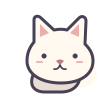
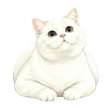
Add pointer wrapping and restore the watercolor white cat

diff --git a/Sources/MouseNav.swift b/Sources/MouseNav.swift
@@ -283,7 +283,7 @@ private enum Shortcuts {
 @MainActor
 private final class Navigator: NSObject, NSApplicationDelegate {
     private let workspace = NSWorkspace.shared
-    private let catArtwork = Bundle.main.url(forResource: "WhiteCat", withExtension: "svg")
+    private let catArtwork = Bundle.main.url(forResource: "WhiteCat", withExtension: "png")
         .flatMap { NSImage(contentsOf: $0) } ?? NSImage(systemSymbolName: "pawprint.fill", accessibilityDescription: nil)
     private var rails: [CGDirectDisplayID: Rail] = [:]
     private var desktopLabels: [CGDirectDisplayID: NSTextField] = [:]
@@ -296,6 +296,9 @@ private final class Navigator: NSObject, NSApplicationDelegate {
     private var displayFrames: [(id: CGDirectDisplayID, frame: NSRect)] = []
     private var shownDisplay: CGDirectDisplayID?
     private var pointerTimer: Timer?
+    private var pointerWrap: PointerWrap?
+    private var globalPointerMonitor: Any?
+    private var localPointerMonitor: Any?
     private var railRecoveryTask: Task<Void, Never>?
     private var recent: [pid_t] = []
     private var observers: [NSObjectProtocol] = []
@@ -328,6 +331,7 @@ private final class Navigator: NSObject, NSApplicationDelegate {
         installMenuBarItem()
         refreshScreens()
         startFollowingPointer()
+        if UserDefaults.standard.bool(forKey: "pointerWrapEnabled") { startPointerWrap() }
         log.notice("launch displays=\(self.rails.count) postEvents=\(Shortcuts.permitted) axTrusted=\(AXIsProcessTrusted()) spacesRead=\(self.spaces.displays() != nil)")
     }
 
@@ -335,6 +339,7 @@ private final class Navigator: NSObject, NSApplicationDelegate {
 
     func applicationWillTerminate(_ notification: Notification) {
         pointerTimer?.invalidate()
+        stopPointerWrap()
         railRecoveryTask?.cancel()
         cancelCycle()
     }
@@ -366,6 +371,7 @@ private final class Navigator: NSObject, NSApplicationDelegate {
         displayFrames = screens.compactMap { screen in
             screen.displayID.map { ($0, screen.frame) }
         }
+        pointerWrap = PointerWrap(frames: displayFrames.map { CGDisplayBounds($0.id) })
         let online = Set(displayFrames.map(\.id))
         for id in Set(rails.keys).subtracting(online) {
             rails.removeValue(forKey: id)?.panel.close()
@@ -389,6 +395,44 @@ private final class Navigator: NSObject, NSApplicationDelegate {
         timer.tolerance = 0.02
         RunLoop.main.add(timer, forMode: .common)
         pointerTimer = timer
+    }
+
+    private func startPointerWrap() {
+        globalPointerMonitor = NSEvent.addGlobalMonitorForEvents(matching: .mouseMoved) { [weak self] event in
+            MainActor.assumeIsolated { self?.wrapPointer(for: event) }
+        }
+        guard globalPointerMonitor != nil else {
+            log.error("pointer wrap could not start monitoring mouse movement")
+            return
+        }
+        localPointerMonitor = NSEvent.addLocalMonitorForEvents(matching: .mouseMoved) { [weak self] event in
+            self?.wrapPointer(for: event)
+            return event
+        }
+        log.notice("pointer wrap enabled")
+    }
+
+    private func stopPointerWrap() {
+        if let globalPointerMonitor { NSEvent.removeMonitor(globalPointerMonitor) }
+        if let localPointerMonitor { NSEvent.removeMonitor(localPointerMonitor) }
+        globalPointerMonitor = nil
+        localPointerMonitor = nil
+        pointerWrap?.reset()
+    }
+
+    private func wrapPointer(for event: NSEvent) {
+        guard NSEvent.pressedMouseButtons == 0 else {
+            pointerWrap?.reset()
+            return
+        }
+        guard let point = event.cgEvent?.location,
+              let destination = pointerWrap?.destination(
+                at: point, dx: event.deltaX, dy: event.deltaY, time: event.timestamp
+              ),
+              let cursor = CGEvent(source: nil)?.location, abs(cursor.x - point.x) <= 1,
+              CGWarpMouseCursorPosition(destination) == .success else { return }
+        updateRailVisibility()
+        log.info("pointer wrapped left=\(destination.x < point.x)")
     }
 
     private func updateRailVisibility(force: Bool = false) {
@@ -888,6 +932,9 @@ private final class Navigator: NSObject, NSApplicationDelegate {
         let cycleItem = item("跨屏循环", #selector(toggleCycle))
         cycleItem.state = cycleEnabled ? .on : .off
         menu.addItem(cycleItem)
+        let wrapItem = item("鼠标跨屏绕回", #selector(togglePointerWrap))
+        wrapItem.state = globalPointerMonitor == nil ? .off : .on
+        menu.addItem(wrapItem)
         menu.addItem(.separator())
         menu.addItem(item("辅助功能设置…", #selector(requestPermission)))
         menu.addItem(item("桌面快捷键设置…", #selector(openKeyboardSettings)))
@@ -902,6 +949,15 @@ private final class Navigator: NSObject, NSApplicationDelegate {
         cancelCycle()
         updateCycleCaption()
         statusItem?.menu?.items.first(where: { $0.action == #selector(toggleCycle) })?.state = cycleEnabled ? .on : .off
+    }
+
+    @objc private func togglePointerWrap() {
+        if globalPointerMonitor == nil {
+            startPointerWrap()
+        } else {
+            stopPointerWrap()
+        }
+        UserDefaults.standard.set(globalPointerMonitor != nil, forKey: "pointerWrapEnabled")
     }
 
     @objc private func toggleVisibility() {
@@ -934,6 +990,8 @@ private final class Navigator: NSObject, NSApplicationDelegate {
 extension Navigator: NSMenuDelegate {
     func menuNeedsUpdate(_ menu: NSMenu) {
         menu.items.first?.title = visible ? "隐藏导航栏" : "显示导航栏"
+        menu.items.first(where: { $0.action == #selector(togglePointerWrap) })?.state =
+            globalPointerMonitor == nil ? .off : .on
     }
 }
 

diff --git a/Tests/SpaceCycleCheck.swift b/Tests/SpaceCycleCheck.swift
@@ -48,5 +48,30 @@ struct SpaceCycleCheck {
         oneSpace.confirm(aFirst, forward: true)
         precondition(oneSpace.target(forward: false, displays: atBoundary).space == 302)
         print("PASS: forward/reverse wrap, B origin, caption, topology, reorder and C boundary reversal")
+        checkPointerWrap()
+    }
+
+    private static func checkPointerWrap() {
+        let a = CGRect(x: 0, y: 0, width: 1512, height: 982)
+        let b = CGRect(x: 1512, y: 0, width: 1920, height: 1080)
+        let c = CGRect(x: 3432, y: 0, width: 1920, height: 1080)
+        var wrap = PointerWrap(frames: [b, c, a])!
+        let aLeft = CGPoint(x: 0, y: 400)
+        let cRight = CGPoint(x: 5351.5, y: 1050)
+        precondition(wrap.destination(at: aLeft, dx: -12, dy: 0, time: 1) == nil)
+        precondition(wrap.destination(at: aLeft, dx: -3, dy: 0, time: 1.01) == nil)
+        precondition(wrap.destination(at: aLeft, dx: -3, dy: 0, time: 1.02) == CGPoint(x: 5344, y: 400))
+        precondition(wrap.destination(at: cRight, dx: 9, dy: 0, time: 2) == nil)
+        precondition(wrap.destination(at: cRight, dx: 9, dy: 0, time: 2.01) == CGPoint(x: 8, y: 974))
+        precondition(wrap.destination(at: aLeft, dx: -9, dy: 0, time: 3) == nil)
+        precondition(wrap.destination(at: aLeft, dx: -9, dy: 0, time: 3.5) == nil)
+        precondition(wrap.destination(at: aLeft, dx: 9, dy: 0, time: 3.51) == nil)
+        precondition(wrap.destination(at: aLeft, dx: -9, dy: 0, time: 3.52) == nil)
+        for time in [4.0, 4.01] {
+            precondition(wrap.destination(at: CGPoint(x: 1511, y: 400), dx: 9, dy: 0, time: time) == nil)
+        }
+        precondition(PointerWrap(frames: [a]) == nil)
+        precondition(PointerWrap(frames: [a, a.offsetBy(dx: 0, dy: 982)]) == nil)
+        print("PASS: pointer wrapping in both directions, edge intent, middle boundary and single/vertical layouts")
     }
 }

diff --git a/Sources/PointerWrap.swift b/Sources/PointerWrap.swift
@@ -1,0 +1,56 @@
+import CoreGraphics
+
+struct PointerWrap {
+    private enum Edge { case left, right }
+
+    private let left: CGRect
+    private let right: CGRect
+    private var edge: Edge?
+    private var outwardDistance: CGFloat = 0
+    private var lastPush: Double = 0
+
+    init?(frames: [CGRect]) {
+        guard let left = frames.min(by: { $0.minX < $1.minX }),
+              let right = frames.max(by: { $0.maxX < $1.maxX }),
+              left.maxX <= right.minX else { return nil }
+        self.left = left
+        self.right = right
+    }
+
+    mutating func reset() {
+        edge = nil
+        outwardDistance = 0
+    }
+
+    mutating func destination(at point: CGPoint, dx: CGFloat, dy: CGFloat, time: Double) -> CGPoint? {
+        let pushing: Edge
+        if abs(dx) < abs(dy) {
+            reset()
+            return nil
+        } else if dx < 0, abs(point.x - left.minX) <= 1, point.y >= left.minY, point.y < left.maxY {
+            pushing = .left
+        } else if dx > 0, abs(point.x - right.maxX) <= 1, point.y >= right.minY, point.y < right.maxY {
+            pushing = .right
+        } else {
+            reset()
+            return nil
+        }
+
+        defer { lastPush = time }
+        guard pushing == edge, time - lastPush <= 0.25 else {
+            // Touching the edge only arms it. The next outward movement can wrap.
+            edge = pushing
+            outwardDistance = 0
+            return nil
+        }
+        outwardDistance += abs(dx)
+        guard outwardDistance >= 6 else { return nil }
+        reset()
+
+        let target = pushing == .left ? right : left
+        let inset: CGFloat = 8
+        let x = pushing == .left ? target.maxX - inset : target.minX + inset
+        let y = max(target.minY + inset, min(point.y, target.maxY - inset))
+        return CGPoint(x: x, y: y)
+    }
+}

diff --git a/README.md b/README.md
@@ -4,7 +4,7 @@
 
 Less Pain Code is a native macOS toolbar for switching desktops across displays and triggering common shortcuts with the mouse.
 
-[看界面](#界面预览) · [从源码构建](#从源码构建) · [提问题](https://github.com/Desperadolky/less-pain-code/issues)
+[下载 1.4.2 安装包](https://github.com/Desperadolky/less-pain-code/releases/tag/v1.4.2) · [官网](https://mouse-nav-for-mac.desperado0814.chatgpt.site/#download) · [看界面](#界面预览) · [从源码构建](#从源码构建) · [提问题](https://github.com/Desperadolky/less-pain-code/issues)
 
 ## 界面预览
 
@@ -12,11 +12,12 @@ Less Pain Code is a native macOS toolbar for switching desktops across displays 
 | :---: | :---: |
 | <a href="docs/screenshots/qiping-expanded.png"><img src="docs/screenshots/qiping-expanded.png" width="162" alt="Less Pain Code 展开后的导航栏，显示 B 屏第 2 个桌面，下面是桌面切换、语音输入、回车、删除和 App 按钮"></a> | <a href="docs/screenshots/qiping-compact.png"><img src="docs/screenshots/qiping-compact.png" width="96" alt="Less Pain Code 收起后只保留可拖动的小白猫入口"></a> |
 
-界面由开源版的 AppKit 组件渲染。「B 屏 · 2/3」为示例。左右箭头切换桌面，上箭头打开调度中心。点白猫展开或收起，两个状态都可拖动。
+界面由 1.4.2 的 AppKit 组件渲染，使用制作人选定的水彩白猫原图。「B 屏 · 2/3」为示例。左右箭头切换桌面，上箭头打开调度中心。点白猫展开或收起，两个状态都可拖动。
 
 ## 功能
 
 - **切桌面**。开启跨屏循环后，鼠标可留在当前屏，继续切换其他显示器的桌面。
+- **鼠标绕回**。在「更多 → 鼠标跨屏绕回」开启后，鼠标推到最左侧屏幕的左缘再继续向左，就会从最右侧屏幕的右缘回来，反向同样适用。
 - **找窗口和 App**。用调度中心查看桌面与窗口，或从 App 菜单选中已打开的应用。
 - **输入和编辑**。语音按钮目前适配豆包输入法的右 Command 快捷键。回车和删除作用于当前应用。
 - **放在顺手的位置**。面板跟随鼠标所在屏，每块屏幕分别记住拖放位置。
@@ -32,9 +33,9 @@ cd less-pain-code
 open "build/Less Pain Code.app"
 ```
 
-`./setup.sh` 会运行桌面路由测试，并为本机架构构建带本地临时签名的 `build/Less Pain Code.app`。只跑测试可执行 `./setup.sh --test`。
+`./setup.sh` 会运行桌面路由与鼠标绕回测试，并为本机架构构建带本地临时签名的 `build/Less Pain Code.app`。只跑测试可执行 `./setup.sh --test`。
 
-[原「鼠标导航栏」公证安装包](https://mouse-nav-for-mac.desperado0814.chatgpt.site/)使用自己的应用标识，可与源码构建的 Less Pain Code 区分。
+面向 Apple 芯片 Mac 的 [1.4.2 公证安装包](https://github.com/Desperadolky/less-pain-code/releases/tag/v1.4.2)与源码采用同一应用标识。打开 DMG 后，将 Less Pain Code 拖到「应用程序」。
 
 ## 权限与跨屏
 
@@ -42,6 +43,8 @@ open "build/Less Pain Code.app"
 2. 在「系统设置 → 隐私与安全性 → 辅助功能」授权 Less Pain Code 发送快捷键。单屏切换使用系统的 Control + 左右方向键，可在「键盘快捷键 → 调度中心」检查设置。
 3. 点击左右箭头，确认当前屏切到了相邻桌面。
 4. 若要跨屏循环，在「系统设置 → 桌面与程序坞 → 调度中心」开启「显示器具有单独的空间」，并确认 Less Pain Code 菜单中的「跨屏循环」已开启。继续点左右箭头越过当前屏的桌面边界，栏顶会显示目标屏幕和桌面序号。若该桌面尚未显示，目标屏会切到该桌面。
+
+鼠标跨屏绕回是独立开关，默认关闭。在「更多 → 鼠标跨屏绕回」开启后使用。它适用于横向排列的多块显示器，触到最外侧边缘后继续向外推动才会绕回。按住鼠标拖动时沿用原来的移动方式。显示器重新排列或断开后会重新计算边界。
 
 macOS 26 优先直接切换其他显示器上的桌面。较早系统通过调度中心切换，可能短暂显示总览。跨屏切换依赖 macOS 未公开的接口，系统更新可能影响兼容性。遇到问题可从菜单关闭跨屏循环。
 

diff --git a/THIRD_PARTY_NOTICES.md b/THIRD_PARTY_NOTICES.md
@@ -6,3 +6,7 @@ The app builds with the macOS SDK and has no third-party runtime dependencies. T
 - **Hammerspoon (MIT)**. The [`hs.spaces` module](https://github.com/Hammerspoon/hammerspoon/blob/master/extensions/spaces/spaces.lua) documents the Mission Control Accessibility hierarchy used to find the target desktop button. The original copyright and license text are in [licenses/Hammerspoon.txt](licenses/Hammerspoon.txt).
 
 yabai credits [InstantSpaceSwitcher](https://github.com/jurplel/InstantSpaceSwitcher) and [wacom-driver-fix](https://github.com/thenickdude/wacom-driver-fix/blob/bdfda9a788934c88d09d31ea6a42664b9ba1471e/Readme.md) and notes that the gesture technique was first observed in BetterTouchTool. [Instant Space Switcher (iss)](https://github.com/joshuarli/iss) was also consulted for gesture field definitions.
+
+## Watercolor white-cat artwork
+
+`Resources/WhiteCat.png` is the project owner’s selected watercolor white-cat artwork. It is included with the owner’s authorization and used in both expanded and collapsed toolbar states.
